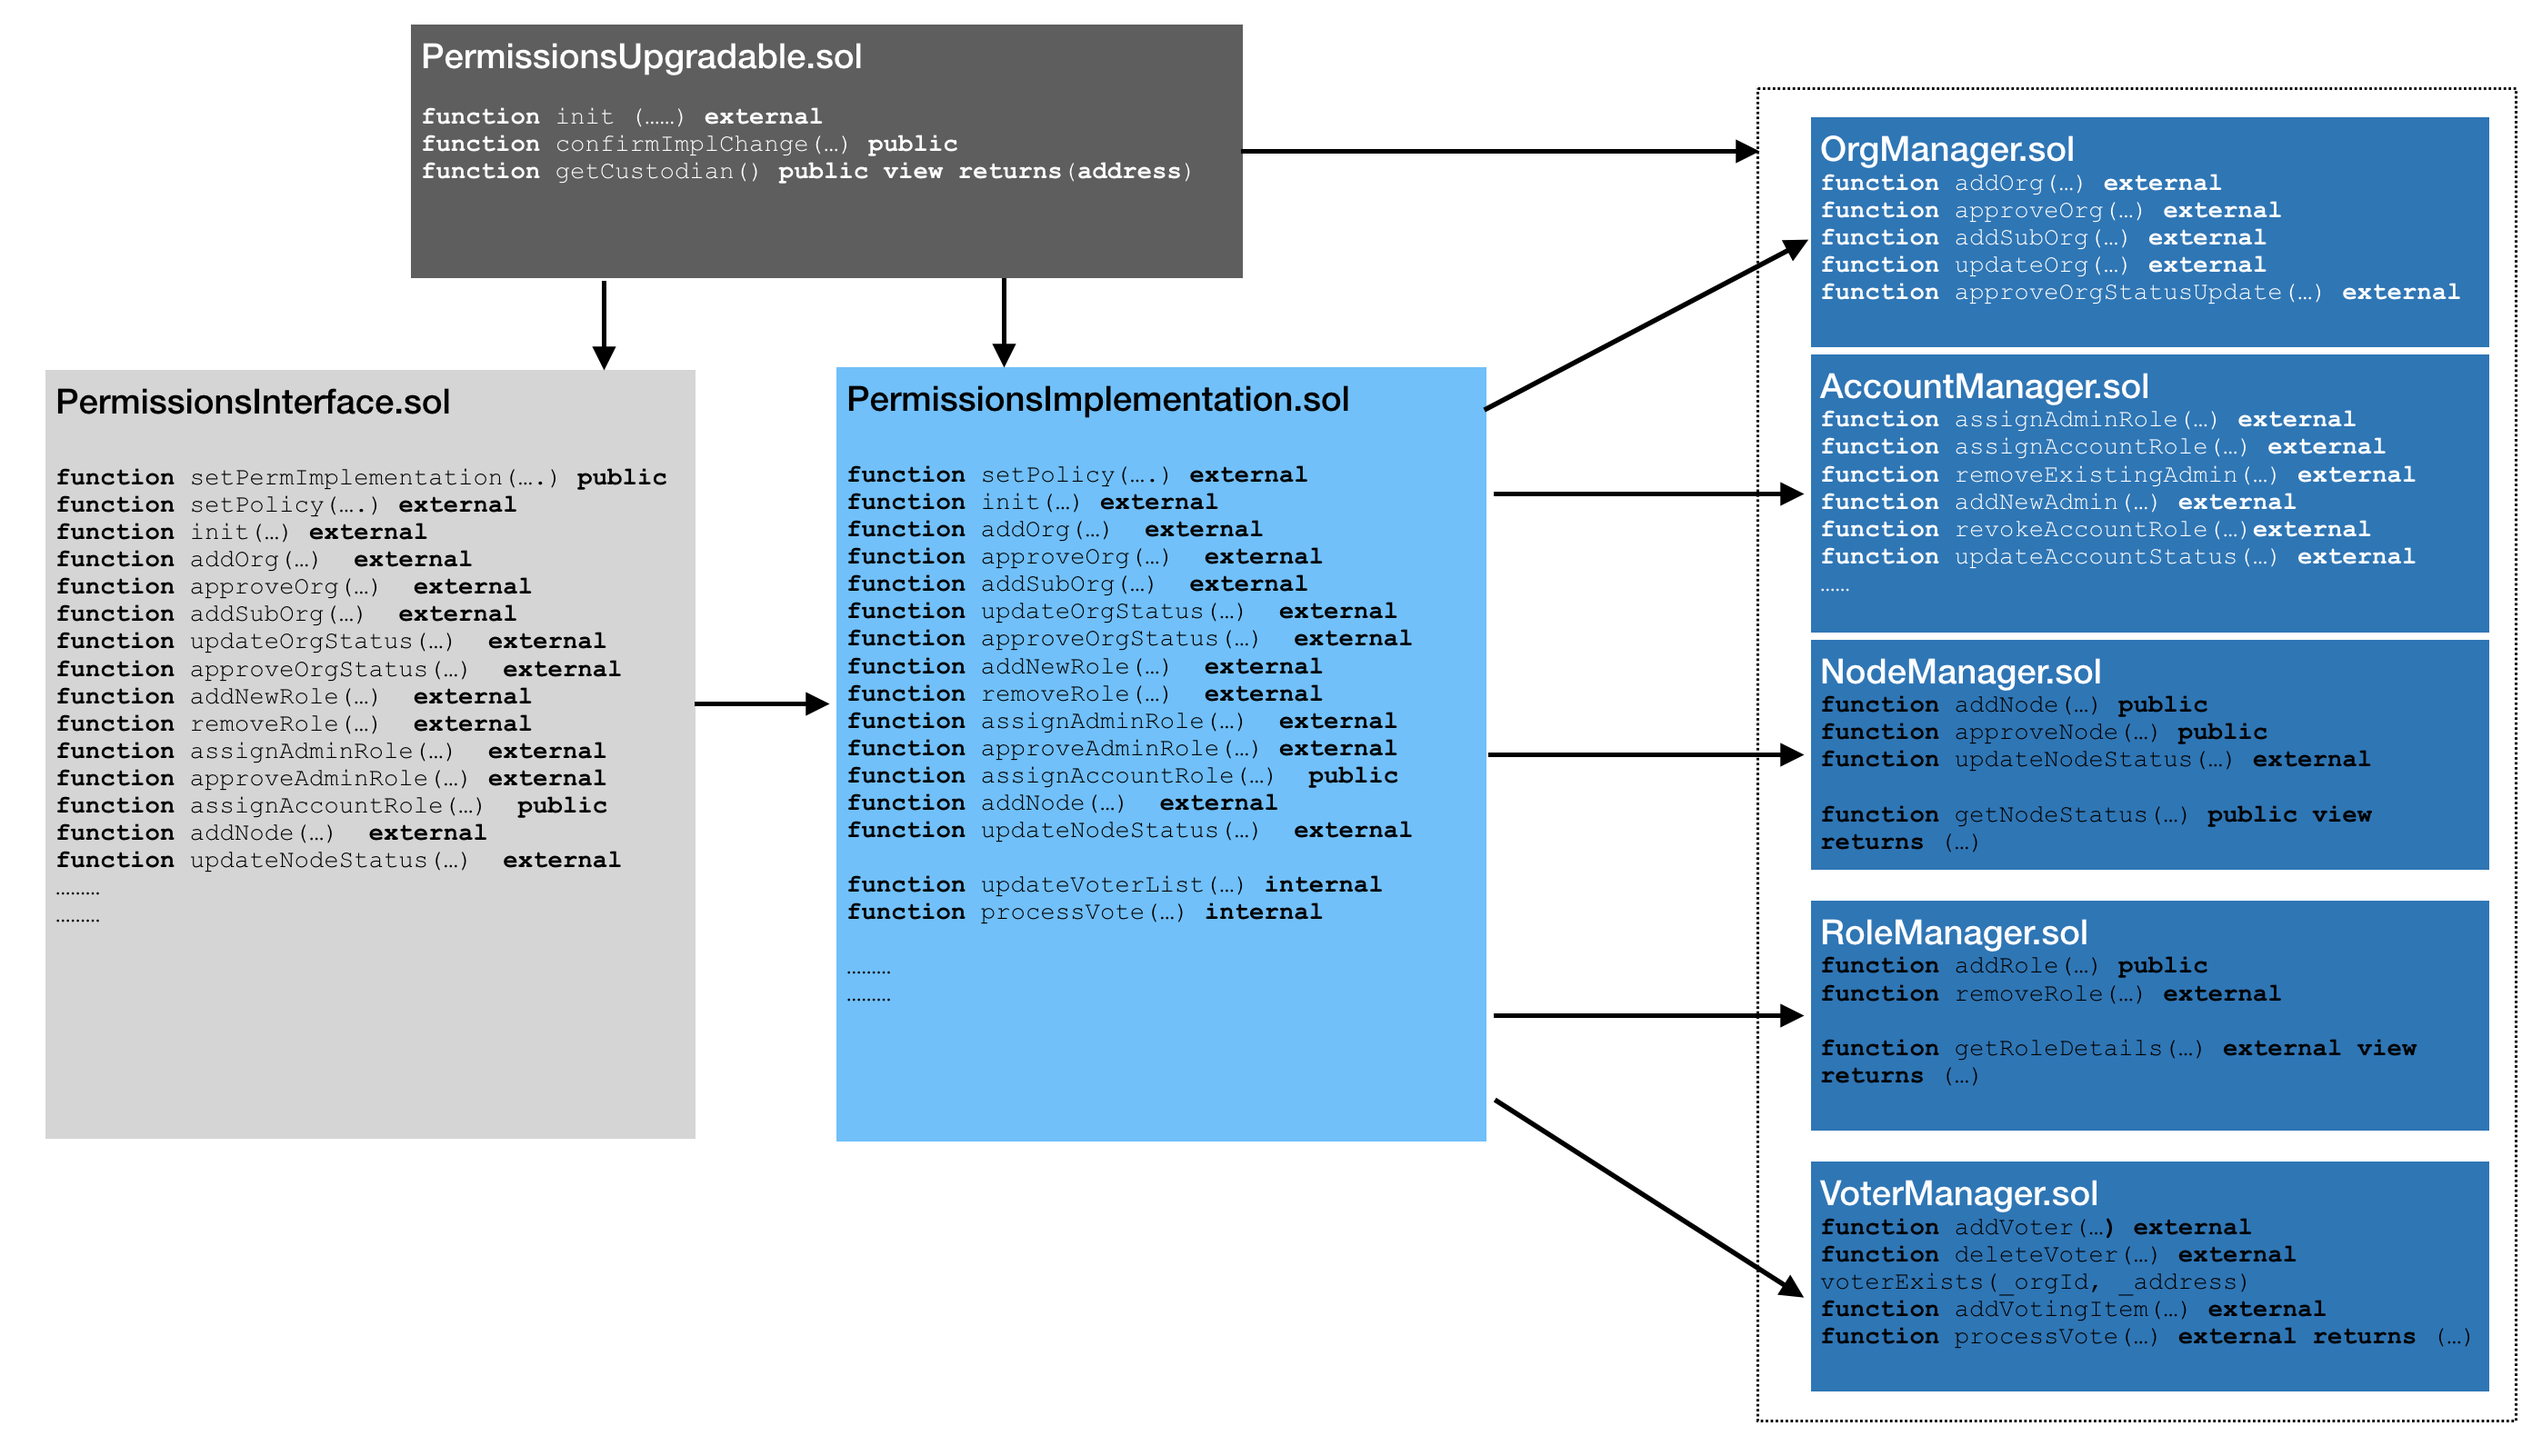
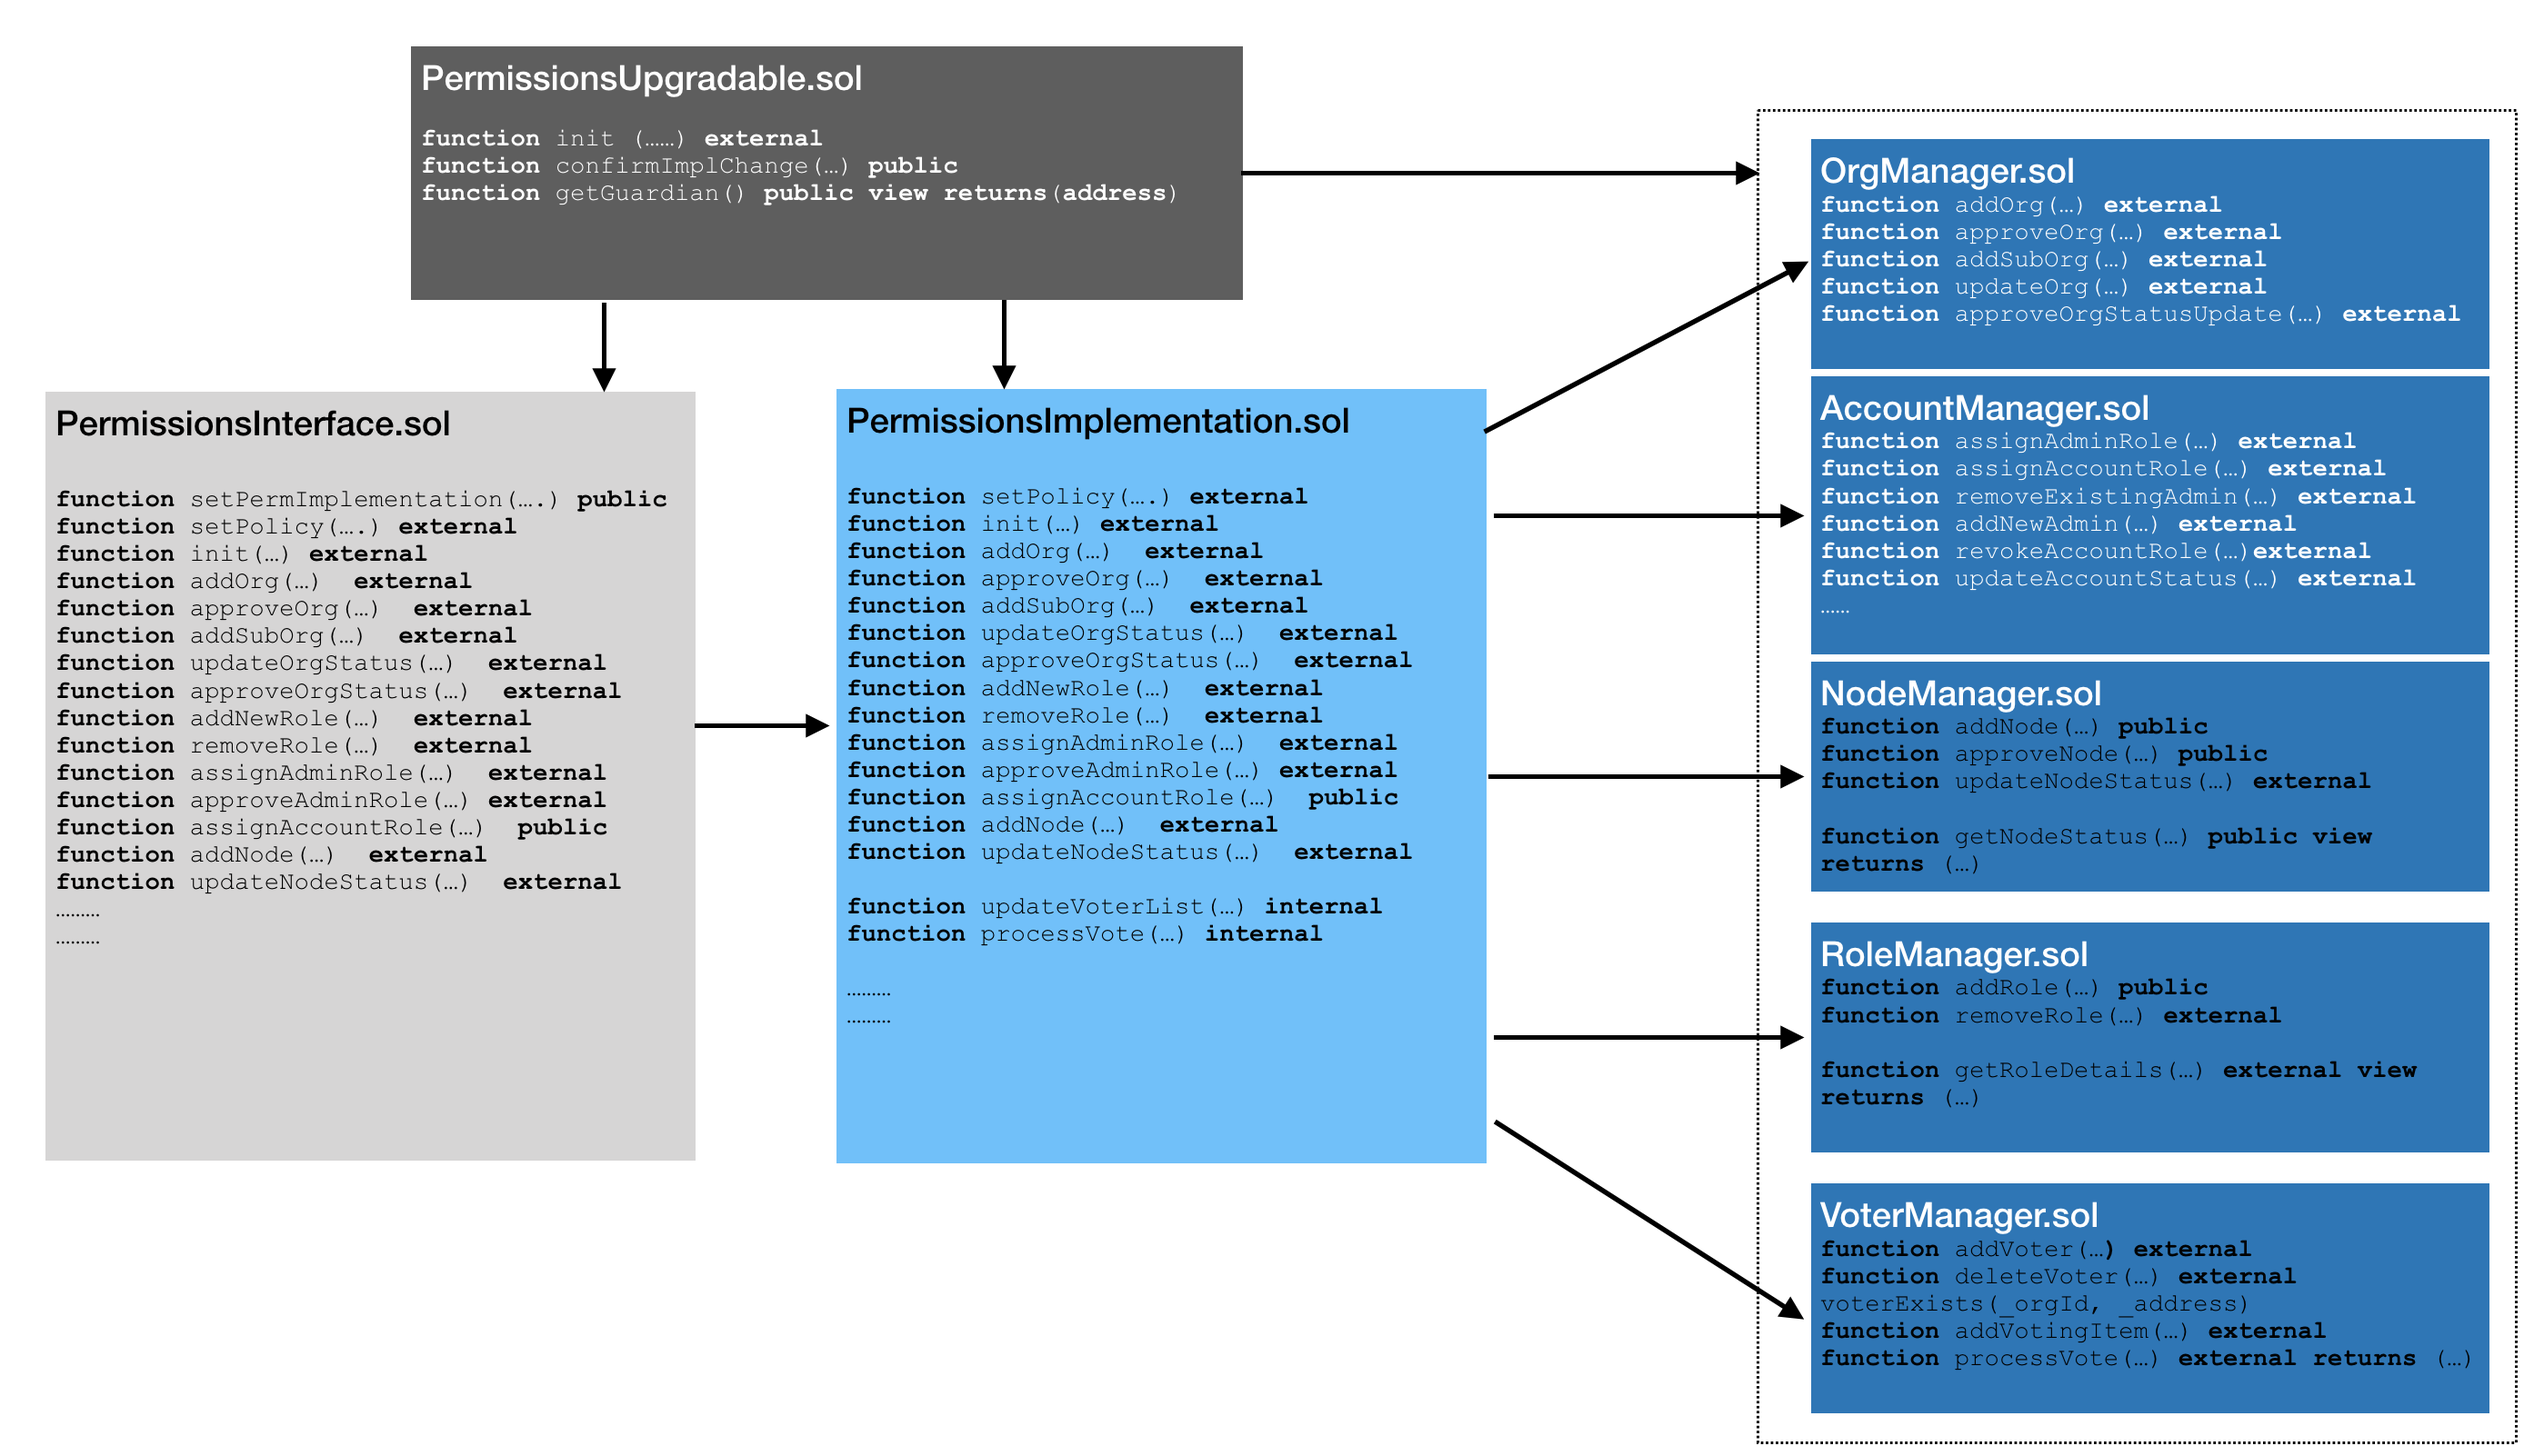
permissions: renamed custodian to guardian.

diff --git a/permission/bind/permission_upgr.go b/permission/bind/permission_upgr.go
@@ -28,7 +28,7 @@ var (
 )
 
 // PermUpgrABI is the input ABI used to generate the binding from.
-const PermUpgrABI = "[{\"constant\":true,\"inputs\":[],\"name\":\"getPermImpl\",\"outputs\":[{\"name\":\"\",\"type\":\"address\"}],\"payable\":false,\"stateMutability\":\"view\",\"type\":\"function\"},{\"constant\":false,\"inputs\":[{\"name\":\"_proposedImpl\",\"type\":\"address\"}],\"name\":\"confirmImplChange\",\"outputs\":[],\"payable\":false,\"stateMutability\":\"nonpayable\",\"type\":\"function\"},{\"constant\":true,\"inputs\":[],\"name\":\"getCustodian\",\"outputs\":[{\"name\":\"\",\"type\":\"address\"}],\"payable\":false,\"stateMutability\":\"view\",\"type\":\"function\"},{\"constant\":true,\"inputs\":[],\"name\":\"getPermInterface\",\"outputs\":[{\"name\":\"\",\"type\":\"address\"}],\"payable\":false,\"stateMutability\":\"view\",\"type\":\"function\"},{\"constant\":false,\"inputs\":[{\"name\":\"_permInterface\",\"type\":\"address\"},{\"name\":\"_permImpl\",\"type\":\"address\"}],\"name\":\"init\",\"outputs\":[],\"payable\":false,\"stateMutability\":\"nonpayable\",\"type\":\"function\"},{\"inputs\":[{\"name\":\"_custodian\",\"type\":\"address\"}],\"payable\":false,\"stateMutability\":\"nonpayable\",\"type\":\"constructor\"}]"
+const PermUpgrABI = "[{\"constant\":true,\"inputs\":[],\"name\":\"getPermImpl\",\"outputs\":[{\"name\":\"\",\"type\":\"address\"}],\"payable\":false,\"stateMutability\":\"view\",\"type\":\"function\"},{\"constant\":false,\"inputs\":[{\"name\":\"_proposedImpl\",\"type\":\"address\"}],\"name\":\"confirmImplChange\",\"outputs\":[],\"payable\":false,\"stateMutability\":\"nonpayable\",\"type\":\"function\"},{\"constant\":true,\"inputs\":[],\"name\":\"getGuardian\",\"outputs\":[{\"name\":\"\",\"type\":\"address\"}],\"payable\":false,\"stateMutability\":\"view\",\"type\":\"function\"},{\"constant\":true,\"inputs\":[],\"name\":\"getPermInterface\",\"outputs\":[{\"name\":\"\",\"type\":\"address\"}],\"payable\":false,\"stateMutability\":\"view\",\"type\":\"function\"},{\"constant\":false,\"inputs\":[{\"name\":\"_permInterface\",\"type\":\"address\"},{\"name\":\"_permImpl\",\"type\":\"address\"}],\"name\":\"init\",\"outputs\":[],\"payable\":false,\"stateMutability\":\"nonpayable\",\"type\":\"function\"},{\"inputs\":[{\"name\":\"_guardian\",\"type\":\"address\"}],\"payable\":false,\"stateMutability\":\"nonpayable\",\"type\":\"constructor\"}]"
 
 // PermUpgr is an auto generated Go binding around an Ethereum contract.
 type PermUpgr struct {
@@ -172,30 +172,30 @@ func (_PermUpgr *PermUpgrTransactorRaw) Transact(opts *bind.TransactOpts, method
 	return _PermUpgr.Contract.contract.Transact(opts, method, params...)
 }
 
-// GetCustodian is a free data retrieval call binding the contract method 0xc561d4b7.
+// GetGuardian is a free data retrieval call binding the contract method 0xa75b87d2.
 //
-// Solidity: function getCustodian() constant returns(address)
-func (_PermUpgr *PermUpgrCaller) GetCustodian(opts *bind.CallOpts) (common.Address, error) {
+// Solidity: function getGuardian() constant returns(address)
+func (_PermUpgr *PermUpgrCaller) GetGuardian(opts *bind.CallOpts) (common.Address, error) {
 	var (
 		ret0 = new(common.Address)
 	)
 	out := ret0
-	err := _PermUpgr.contract.Call(opts, out, "getCustodian")
+	err := _PermUpgr.contract.Call(opts, out, "getGuardian")
 	return *ret0, err
 }
 
-// GetCustodian is a free data retrieval call binding the contract method 0xc561d4b7.
+// GetGuardian is a free data retrieval call binding the contract method 0xa75b87d2.
 //
-// Solidity: function getCustodian() constant returns(address)
-func (_PermUpgr *PermUpgrSession) GetCustodian() (common.Address, error) {
-	return _PermUpgr.Contract.GetCustodian(&_PermUpgr.CallOpts)
+// Solidity: function getGuardian() constant returns(address)
+func (_PermUpgr *PermUpgrSession) GetGuardian() (common.Address, error) {
+	return _PermUpgr.Contract.GetGuardian(&_PermUpgr.CallOpts)
 }
 
-// GetCustodian is a free data retrieval call binding the contract method 0xc561d4b7.
+// GetGuardian is a free data retrieval call binding the contract method 0xa75b87d2.
 //
-// Solidity: function getCustodian() constant returns(address)
-func (_PermUpgr *PermUpgrCallerSession) GetCustodian() (common.Address, error) {
-	return _PermUpgr.Contract.GetCustodian(&_PermUpgr.CallOpts)
+// Solidity: function getGuardian() constant returns(address)
+func (_PermUpgr *PermUpgrCallerSession) GetGuardian() (common.Address, error) {
+	return _PermUpgr.Contract.GetGuardian(&_PermUpgr.CallOpts)
 }
 
 // GetPermImpl is a free data retrieval call binding the contract method 0x0e32cf90.

diff --git a/docs/Permissioning/setup.md b/docs/Permissioning/setup.md
@@ -42,7 +42,7 @@ The steps to enable new permissions model are as described below:
 ```javascript
 ac = eth.accounts[0];
 web3.eth.defaultAccount = ac;
-var abi = [{"constant":true,"inputs":[],"name":"getPermImpl","outputs":[{"name":"","type":"address"}],"payable":false,"stateMutability":"view","type":"function"},{"constant":false,"inputs":[{"name":"_proposedImpl","type":"address"}],"name":"confirmImplChange","outputs":[],"payable":false,"stateMutability":"nonpayable","type":"function"},{"constant":true,"inputs":[],"name":"getCustodian","outputs":[{"name":"","type":"address"}],"payable":false,"stateMutability":"view","type":"function"},{"constant":true,"inputs":[],"name":"getPermInterface","outputs":[{"name":"","type":"address"}],"payable":false,"stateMutability":"view","type":"function"},{"constant":false,"inputs":[{"name":"_permInterface","type":"address"},{"name":"_permImpl","type":"address"}],"name":"init","outputs":[],"payable":false,"stateMutability":"nonpayable","type":"function"},{"inputs":[{"name":"_guardian","type":"address"}],"payable":false,"stateMutability":"nonpayable","type":"constructor"}];
+var abi = [{"constant":true,"inputs":[],"name":"getPermImpl","outputs":[{"name":"","type":"address"}],"payable":false,"stateMutability":"view","type":"function"},{"constant":false,"inputs":[{"name":"_proposedImpl","type":"address"}],"name":"confirmImplChange","outputs":[],"payable":false,"stateMutability":"nonpayable","type":"function"},{"constant":true,"inputs":[],"name":"getGuardian","outputs":[{"name":"","type":"address"}],"payable":false,"stateMutability":"view","type":"function"},{"constant":true,"inputs":[],"name":"getPermInterface","outputs":[{"name":"","type":"address"}],"payable":false,"stateMutability":"view","type":"function"},{"constant":false,"inputs":[{"name":"_permInterface","type":"address"},{"name":"_permImpl","type":"address"}],"name":"init","outputs":[],"payable":false,"stateMutability":"nonpayable","type":"function"},{"inputs":[{"name":"_guardian","type":"address"}],"payable":false,"stateMutability":"nonpayable","type":"constructor"}];
 var upgr = web3.eth.contract(abi).at("0x1932c48b2bf8102ba33b4a6b545c32236e342f34"); // address of the upgradable contracts
 var impl = "0xfe0602d820f42800e3ef3f89e1c39cd15f78d283" // address of the implementation contracts
 var intr = "0x4d3bfd7821e237ffe84209d8e638f9f309865b87" // address of the interface contracts
